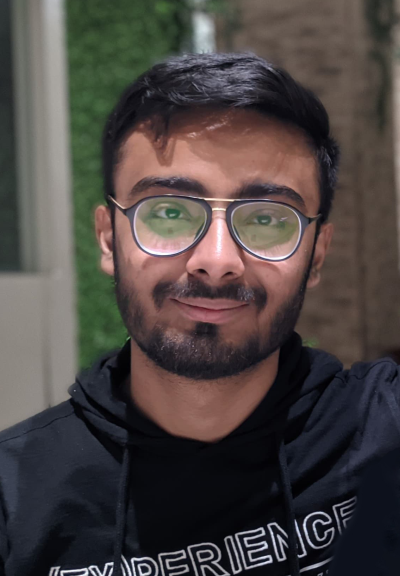
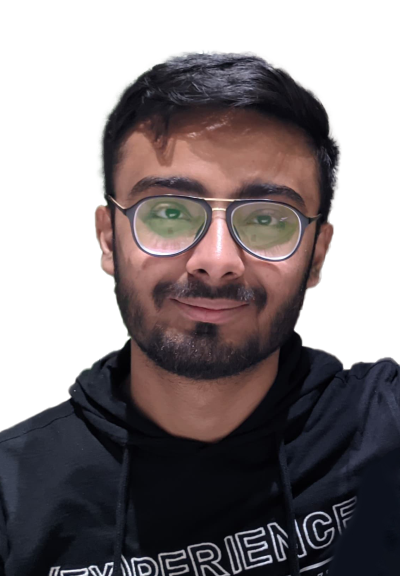
changes profile

diff --git a/css/style.css b/css/style.css
@@ -450,7 +450,7 @@ body.open .hamburger .bar:last-child {
 
 .showcase-image .person {
   position: absolute;
-  width: 95%;
+  width: 100%;
   bottom: 0;
   left: 50%;
   transform: translateY(-90%);
